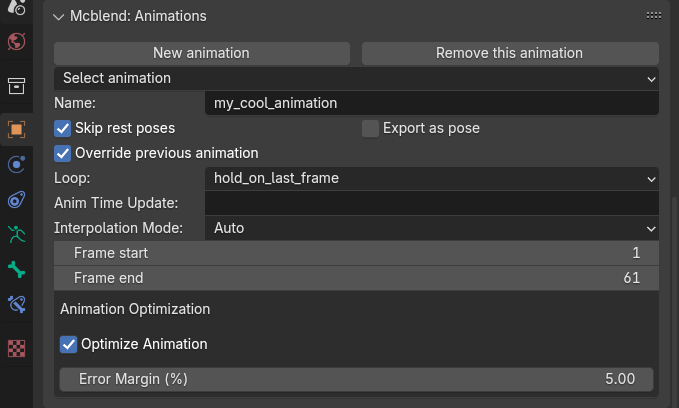
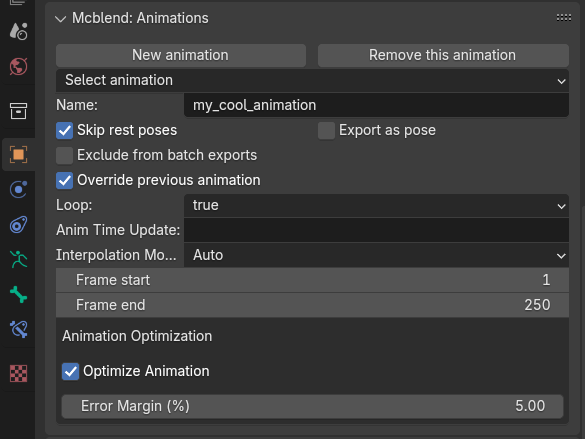
Documented the batch export animation feature.

diff --git a/docs/animations/exporting_animations.md b/docs/animations/exporting_animations.md
@@ -3,7 +3,8 @@
 
 This section explains how to export animations from Mcblend and mentions some additional settings that can be configured before exporting.
 
-To export an animation, you first need to create one using the `New animation` button in the `Object Properties` panel under the `Mcblend: Animations` tab. This tab is only visible when an armature is selected. If you want to remove an animation, use the `Remove this animation` button.
+## Exporting Configuration
+To export an animation, you first need to create one using the `New animation` button in the `Object Properties` panel under the {ref}`Mcblend: Animations<mcblend-object-properties-animations>` tab. This tab is only visible when an armature is selected. If you want to remove an animation, use the `Remove this animation` button.
 
 Before exporting the animation, you can configure some additional settings in the `Object Properties` panel. The `Skip rest poses` checkbox allows you to create more optimized animations by skipping unnecessary keyframes that don't affect the pose of the model. The `Export as pose` option changes the animation to a single pose, creating a looped animation with a single frame.
 
@@ -11,4 +12,18 @@ The `Override previous animation`, `Loop`, and `Anim Time update` settings are p
 
 The `Optimize Animation` checkbox allows you to apply **lossy** optimization to the animation during export. This option also lets you configure the error acceptable margin for the optimization. More details in {ref}`Optimizing animations<optimizing-animations>` section.
 
-Exporting the animation is similar to exporting a model, as explained in the {ref}`Creating animations from scratch<creating-animations-from-scratch>` documentation page. Simply go to `File > Export > Export Bedrock Animation` and select the export path.
+## Exporting a single animation
+
+Exporting a single animation is similar to exporting a model, as explained in the {ref}`Creating animations from scratch<creating-animations-from-scratch>` documentation page. Go to `File > Export > Export Bedrock Animation` and select the export path. If the file already exists and is a valid animation file, the exported animation will be appended/updated.
+
+## Batch exporting multiple animations
+
+If your armature contains several animations you can export **all of them at once** using the *Batch Export Bedrock Animations* operator:
+
+1. Select the armature containing the animations.
+2. Choose `File > Export > Batch Export Bedrock Animations`.
+3. Pick an existing `.animation.json` file or provide a new path. If the file already exists, the exported animations will be appended/updated.
+
+![](/img/animations/batch_export_file_explorer.png)
+
+The sidebar lists all animations on the armature with check-boxes, allowing you to exclude individual clips from the batch.

diff --git a/docs/gui/object_properties.md b/docs/gui/object_properties.md
@@ -60,6 +60,7 @@ The `Mcblend: Animations panel` allows you to easily switch between animations i
 - The `Name` field sets the name of the animation.
 - The `Skip rest poses` checkbox enables animation export optimization. If enabled, the keyframes that don't affect the armature (because they are the rest poses) are skipped in the exported file. In most cases, it's recommended to enable this option.
 - The `Export as pose` checkbox, if enabled, causes the exported animation to contain only one looped frame.
+- The `Exclude from batch exports` checkbox, if enabled, causes the animation to be skipped when using the `Batch Export Bedrock Animations` operator. Alternatively, you can select which animations to export during the export process.
 - The `Override previous animation` field directly translates to the override_previous_animation property of the Minecraft animation. It doesn't affect how the animation is rendered in Blender.
 - The `Loop` field directly translates to the loop property of the Minecraft animation file. There are three options: `true`, `false`, and `hold_on_last_frame`.
 - The `Anim Time Update` field directly translates to the anim_time_update property of the Minecraft animation file. You should either leave it empty (if you don't want to have anim_time_update in your animation) or put a Molang expression in it. It doesn't affect the animation in Mcblend because Mcblend doesn't support Molang.

diff --git a/docs/gui/menu_items.md b/docs/gui/menu_items.md
@@ -13,4 +13,5 @@
 ![](/img/gui/menu_export.png)
 
 - The `Export Bedrock Model` menu item exports the selected model to a file.
-- The `Export Bedrock Animation` menu item exports the selected animation to a file.
+- The `Export Bedrock Animation` menu item exports the **currently active** animation to a file.
+- The `Batch Export Bedrock Animations` menu item exports **multiple** animations assigned to the armature into a single `.animation.json` file. It provides options to select which animations to export.
